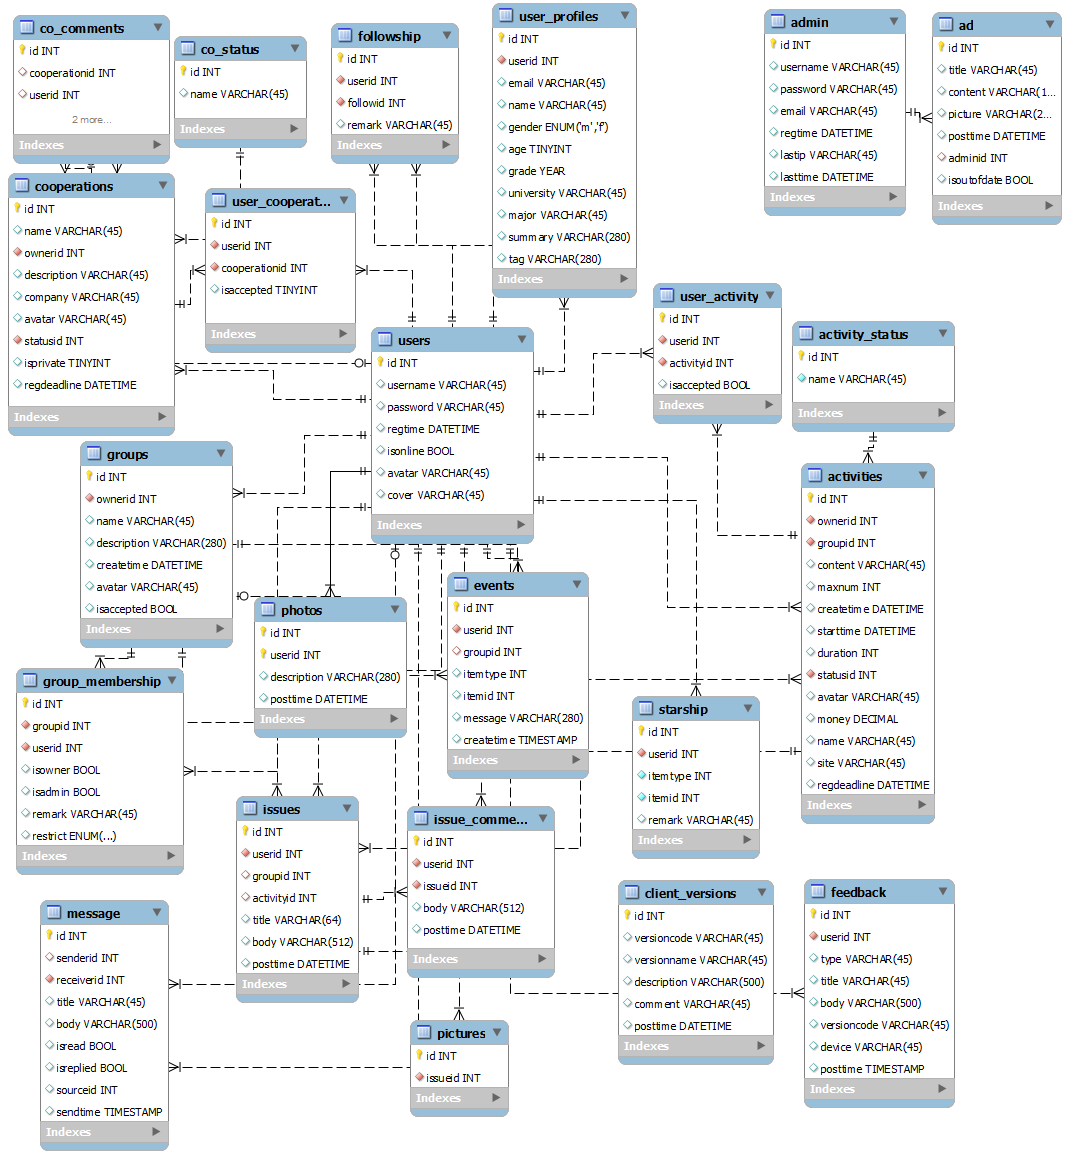
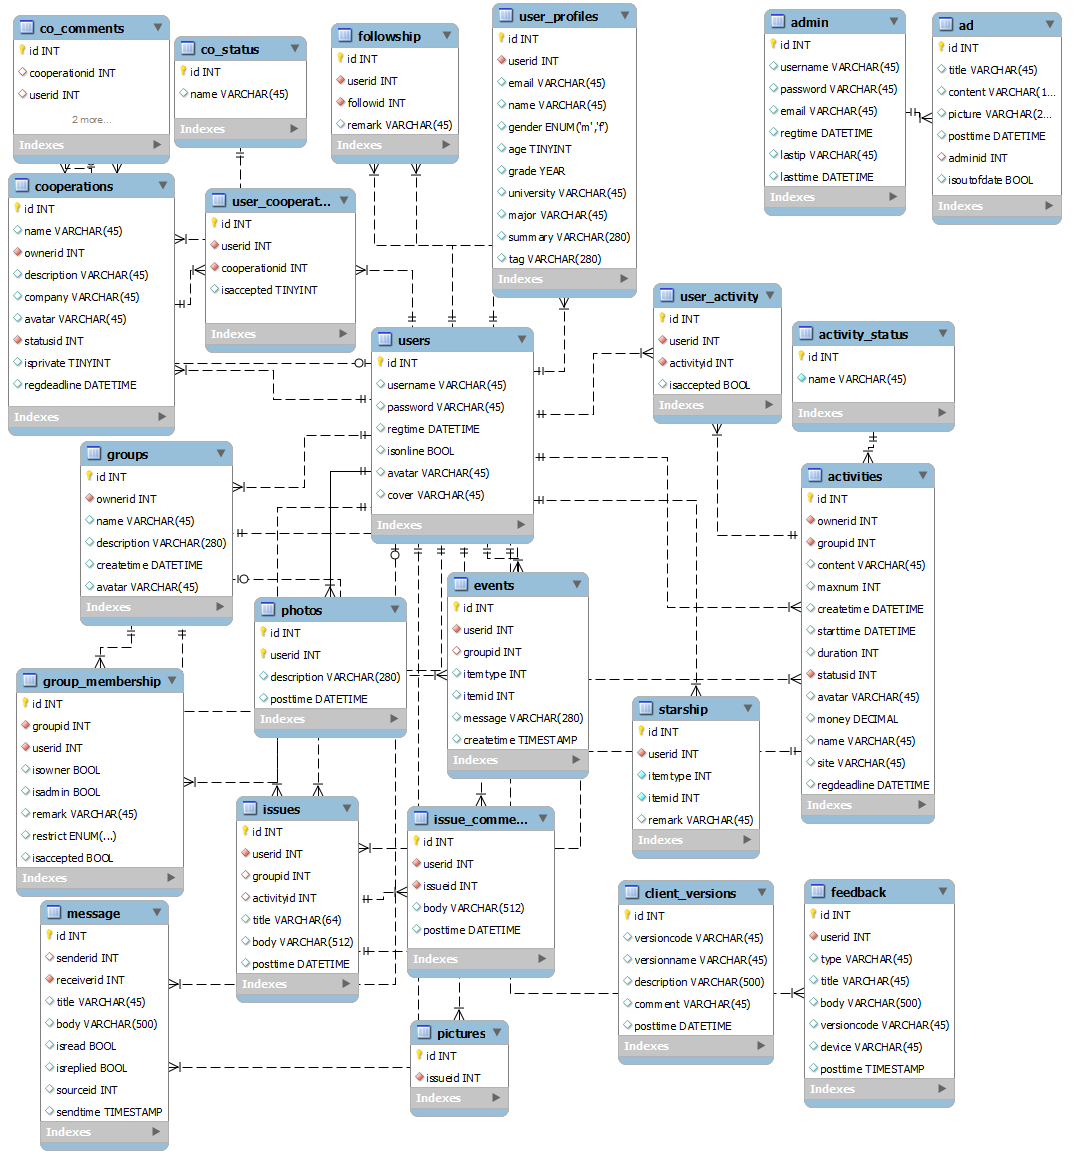
new api: /api/groups/members/accept、/api/groups/members/reject；changed api: /api/groups/member

diff --git a/routes/groups.js b/routes/groups.js
@@ -61,6 +61,7 @@ module.exports = function (app) {
 	 * 支持page、limit、orders
 	 * @method 圈子成员列表
 	 * @param {Number} id
+	 * @param {BOOL} [isaccepted] 0-未通过，1-已通过， 不传值返回该圈子所有成员
 	 * @return {JSON}
 	 */
 	app.get('/api/groups/members', function (req, res, next) {
@@ -73,6 +74,8 @@ module.exports = function (app) {
 						req.query['orders'].forEach(function (order) {
 							qb.orderBy(order[0], order[1]);
 						});
+						if(req.query['isaccepted'])
+							qb.where('isaccepted', req.query['isaccepted']);
 					}).query('offset', req.query['offset'])
 					.query('limit', req.query['limit'])
 					.fetch({withRelated: ['user', 'user.profile']});
@@ -81,6 +84,64 @@ module.exports = function (app) {
 			}).catch(next);
 	})
 
+	/**
+	 * post /api/groups/members/accept <br>
+	 * 管理员或圈主可以操作
+	 * @method 接受加入申请
+	 * @param {Number} membershipid
+	 * @return {JSON}
+	 */
+	app.post('/api/groups/members/accept', function (req, res, next) {
+		if(!req.user) return next(errors(21301));
+		GroupMember.forge({id: req.body['membershipid']})
+			.fetch()
+			.then(function (groupMember) {
+				if(!groupMember) return next(errors(20603));
+				var groupid = groupMember.get('groupid');
+				//判断有没有权限操作
+				GroupMember.forge({groupid: groupid, userid: req.user.id})
+					.fetch()
+					.then(function(gm){
+						if( !(gm.get('isowner') || gm.get('isadmin')) ){
+							return next(errors(40017));
+						}else{
+							return groupMember.set('isaccepted', 1).save();
+						}
+					})
+			}).then(function (groupMember) {
+				next({msg: "group member accepted"});
+			}).catch(next);
+	})
+
+	/**
+	 * post /api/groups/members/reject <br>
+	 * 管理员或圈主可以操作
+	 * @method 拒绝加入申请
+	 * @param {Number} membershipid
+	 * @return {JSON}
+	 */
+	app.post('/api/groups/members/reject',  function (req, res, next) {
+		if(!req.user) return next(errors(21301));
+		GroupMember.forge({id: req.body['membershipid']})
+			.fetch()
+			.then(function (groupMember) {
+				if(!groupMember) return next(errors(20603));//这里返回的是[Object Object]，为什么
+				var groupid = groupMember.get('groupid');
+				//判断有没有权限操作
+				GroupMember.forge({groupid: groupid, userid: req.user.id})
+					.fetch()
+					.then(function(gm){
+						if( !(gm.get('isowner') || gm.get('isadmin')) ){
+							return next(errors(40017));
+						}else{
+							return groupMember.destroy();
+						}
+					})
+			}).then(function () {
+				next({msg: "group member rejected"});
+			}).catch(next);
+	});
+	
 	/**
 	 * get /api/groups/activities <br>
 	 * 支持page、limit、orders
@@ -373,7 +434,8 @@ module.exports = function (app) {
 	});
 
 	/**
-	 * POST /api/groups/remove
+	 * POST /api/groups/remove <br/>
+	 * 管理员或圈主可操作
 	 * @method 踢人出圈子
 	 * @param {Number} userid
 	 * @param {Number} groupid
@@ -400,7 +462,7 @@ module.exports = function (app) {
 							quit(u, req.body['groupid'], next);
 						});
 				}
-			});
+			}).catch(next);
 	});
 
 	/**

diff --git a/models/group-membership.js b/models/group-membership.js
@@ -8,15 +8,16 @@ var chance = new (require('chance'))(),
 GroupMembership = module.exports = syBookshelf.Model.extend({
 	tableName: 'group_membership',
 	fields: [
-		'id', 'groupid', 'userid', 'isowner', 'isadmin', 'remark', 'restrict'
+		'id', 'groupid', 'userid', 'isowner', 'isadmin', 'remark', 'restrict', 'isaccepted'
 	],
 	defaults: function () {
 		return {
 			isowner: 0,
-			isadmin: 0
+			isadmin: 0,
+			isaccepted: 0
 		};
 	},
-	omitInJSON: ['id', 'groupid'],
+	omitInJSON: ['groupid'],
 	user: function () {
 		return this.belongsTo(require('./user'), 'userid');
 	}
